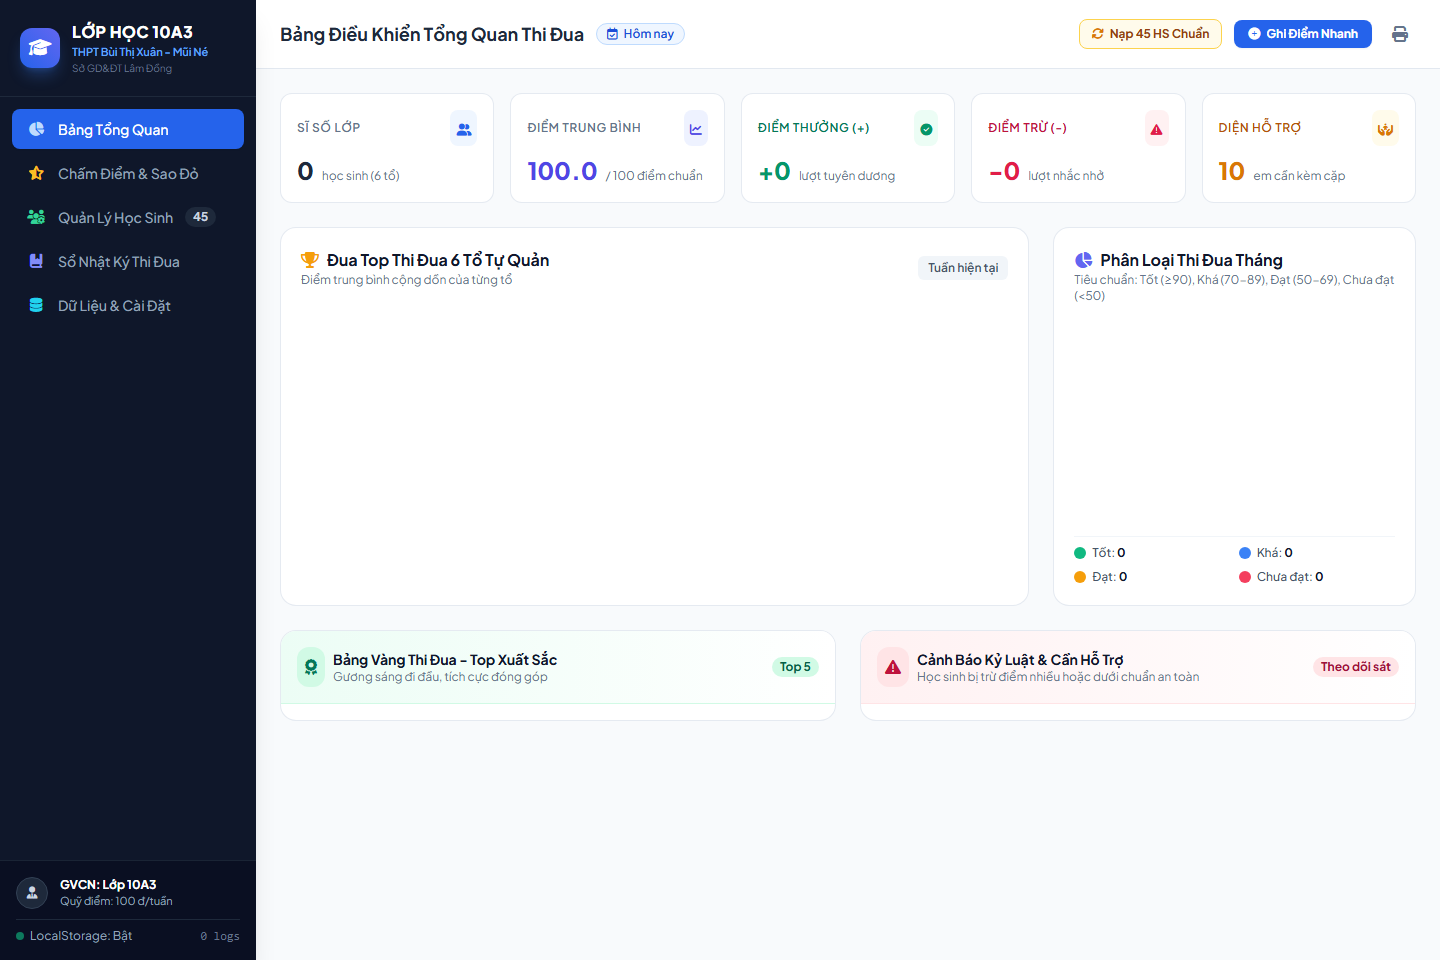
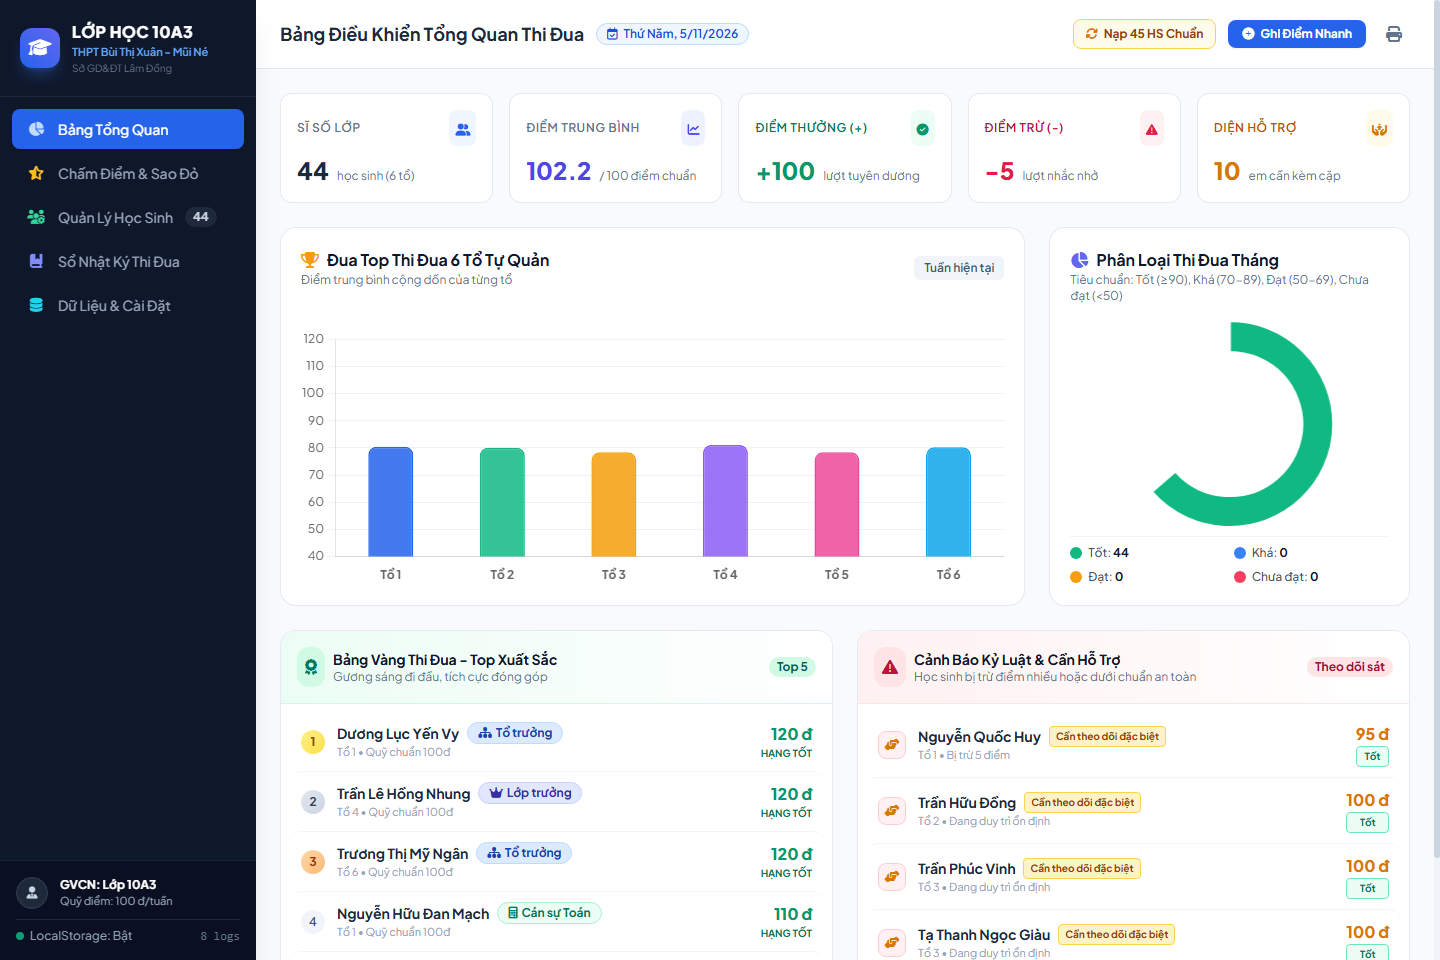
fix: Loai bo syntax error duplicate dong ngoac trong app.js

diff --git a/app.js b/app.js
@@ -1158,13 +1158,6 @@ function injectOfficial45Students(notify = true) {
     showToast('Đã nạp danh sách 44 học sinh phân bổ cân bằng lực học 6 tổ!', 'success');
   }
 }
-  saveDataToStorage();
-  refreshAllUI();
-
-  if (notify) {
-    showToast('Đã nạp chính thức danh sách 45 học sinh THPT Bùi Thị Xuân - Mũi Né!', 'success');
-  }
-}
 
 // Reset toàn bộ về trắng
 function resetAllData() {
